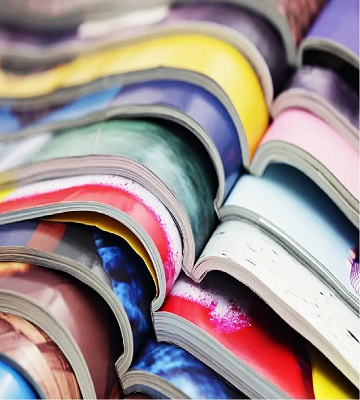
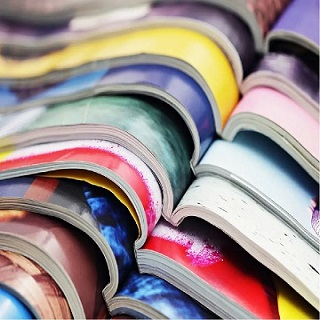
Redimension img 1

diff --git a/index.html b/index.html
@@ -149,7 +149,7 @@
 		</div>
 		<div class="row tight-width-whitespace portfolio-row">
 			<div class="col-sm-6">
-				<a href="#" data-lightbox="img/1.webp" data-gallery-id="gallery-1" data-caption="Refonte d'un site web pour un journal local" data-frame="snapshot-lb"><img width="360" height="400" loading="lazy" src="img/1_light.webp" class="img-responsive portfolio-thumb" alt="image d'un projet de refonte d'un site web d'un journal local"></a>
+				<a href="#" data-lightbox="img/1.webp" data-gallery-id="gallery-1" data-caption="Refonte d'un site web pour un journal local" data-frame="snapshot-lb"><img loading="lazy" src="img/1_light.webp" class="img-responsive portfolio-thumb" alt="image d'un projet de refonte d'un site web d'un journal local"></a>
 				<h3 class="mg-md text-center">
 					Refonte d'un site web pour un journal local
 				</h3>
